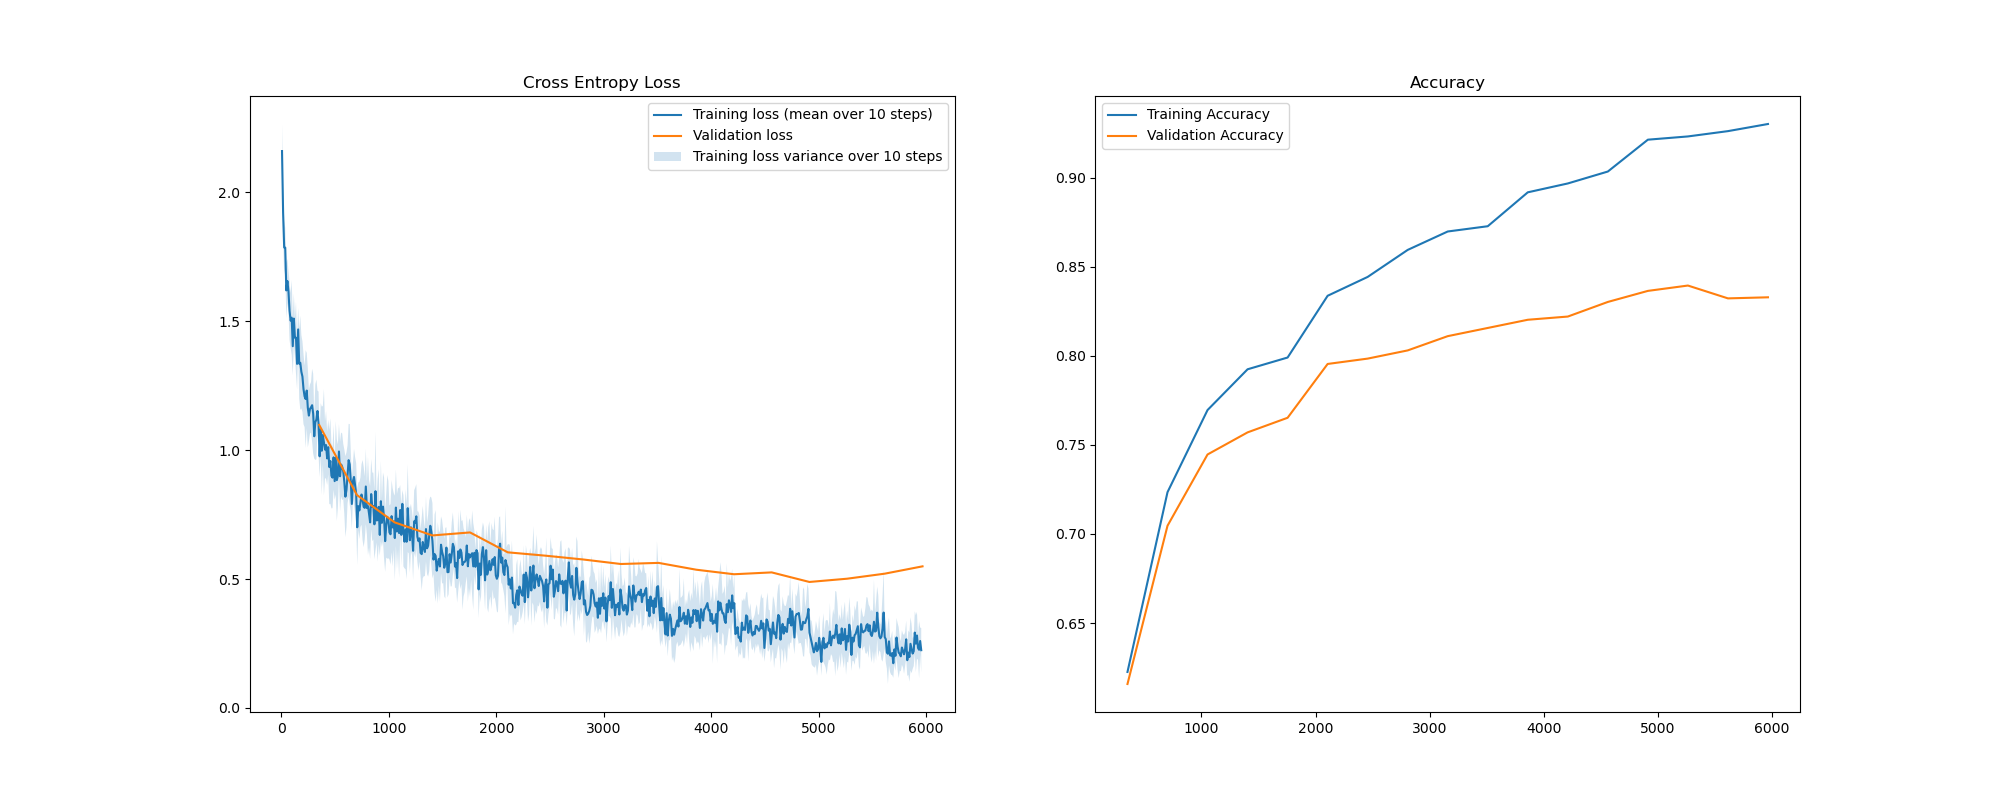
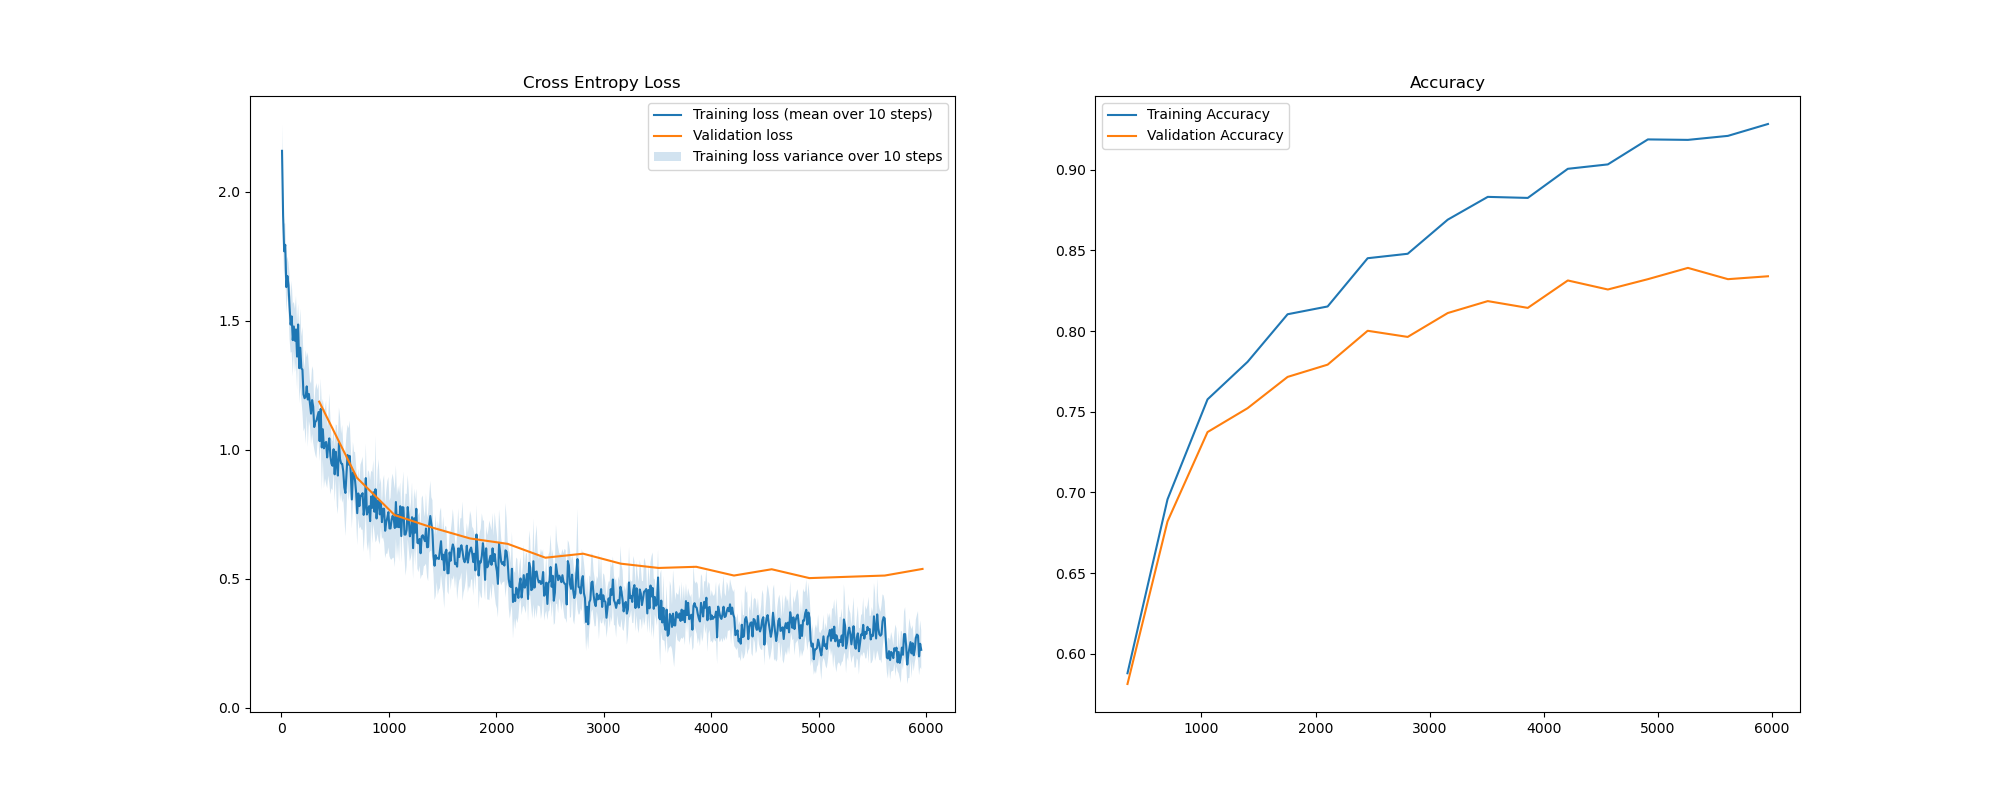
Task 3 done

diff --git a/assignment_3/task3_model_2.py b/assignment_3/task3_model_2.py
@@ -7,6 +7,22 @@ from dataloaders import load_cifar10
 from trainer import Trainer, compute_loss_and_accuracy
 
 
+# (conv-relu-pool-batchnorm)
+def block(in_channels, out_channels):
+    return [
+        nn.Conv2d(
+            in_channels=in_channels,
+            out_channels=out_channels,
+            kernel_size=3,
+            stride=1,
+            padding=1
+        ),
+        nn.ReLU(),
+        nn.MaxPool2d(2, stride=2),
+        nn.BatchNorm2d(out_channels)
+    ]
+
+
 class Model(nn.Module):
 
     def __init__(self,
@@ -22,36 +38,12 @@ class Model(nn.Module):
         self.num_classes = num_classes
         # Define the convolutional layers
         self.feature_extractor = nn.Sequential(
-            nn.Conv2d(
-                in_channels=image_channels,
-                out_channels=32,
-                kernel_size=5,
-                stride=1,
-                padding=2
-            ),
-            nn.ReLU(),
-            nn.MaxPool2d(2, stride=2),
-            nn.Conv2d(
-                in_channels=32,
-                out_channels=64,
-                kernel_size=5,
-                stride=1,
-                padding=2
-            ),
-            nn.ReLU(),
-            nn.MaxPool2d(2, stride=2),
-            nn.Conv2d(
-                in_channels=64,
-                out_channels=128,
-                kernel_size=5,
-                stride=1,
-                padding=2
-            ),
-            nn.ReLU(),
-            nn.MaxPool2d(2, stride=2),
+            *block(3, 32),
+            *block(32, 64),
+            *block(64, 128),
         )
 
-        # The output of feature_extractor will be [batch_size, 128, 4, 4]
+        # The output of feature_extractor will be [batch_size, ?, ?, ?]
         # 128 feature maps with 4x4 images, given 32x32 input images
         self.num_output_features = 4*4*128
         # Initialize our last fully connected layer
@@ -60,7 +52,9 @@ class Model(nn.Module):
         # There is no need for softmax activation function, as this is
         # included with nn.CrossEntropyLoss
         self.classifier = nn.Sequential(
-            nn.Linear(self.num_output_features, 64),
+            nn.Linear(self.num_output_features, 128),
+            nn.ReLU(),
+            nn.Linear(128, 64),
             nn.ReLU(),
             nn.Linear(64, num_classes)
         )
@@ -87,17 +81,60 @@ if __name__ == "__main__":
     utils.set_seed(0)
     epochs = 10
     batch_size = 64
-    learning_rate = 5e-2
+    learning_rate = 0.001
     early_stop_count = 4
-    dataloaders = load_cifar10(batch_size)
+    dataloaders = load_cifar10(batch_size, data_augmentation=False)
     model = Model(image_channels=3, num_classes=10)
-    trainer = Trainer(
+    trainer_with_adam = Trainer(
         batch_size,
         learning_rate,
         early_stop_count,
         epochs,
         model,
-        dataloaders
+        dataloaders,
+        optimizer="Adam"
     )
-    trainer.train()
-    utils.create_plots(trainer, "task3_model_2")
+    trainer_with_adam.train()
+
+    utils.set_seed(0)
+    dataloaders = load_cifar10(batch_size, data_augmentation=False)
+    model = Model(image_channels=3, num_classes=10)
+
+    trainer_without_adam = Trainer(
+        batch_size,
+        learning_rate,
+        early_stop_count,
+        epochs,
+        model,
+        dataloaders,
+        # optimizer="Adam"
+    )
+    trainer_without_adam.train()
+
+    plot_path = pathlib.Path("plots")
+    # Save plots and show them
+    plt.figure(figsize=(20, 8))
+    plt.subplot(1, 2, 1)
+    plt.title("Cross Entropy Loss")
+    utils.plot_loss(trainer_with_adam.train_history["loss"],
+                    label="Training loss with Adam", npoints_to_average=10)
+    utils.plot_loss(trainer_without_adam.train_history["loss"],
+                    label="Training loss without Adam", npoints_to_average=10)
+    utils.plot_loss(
+        trainer_with_adam.validation_history["loss"], label="Validation loss with Adam")
+    utils.plot_loss(
+        trainer_without_adam.validation_history["loss"], label="Validation loss without Adam")
+    plt.legend()
+    plt.subplot(1, 2, 2)
+    plt.title("Accuracy")
+    utils.plot_loss(
+        trainer_with_adam.train_history["accuracy"], label="Training Accuracy with Adam")
+    utils.plot_loss(
+        trainer_without_adam.train_history["accuracy"], label="Training Accuracy without Adam")
+    utils.plot_loss(
+        trainer_with_adam.validation_history["accuracy"], label="Validation Accuracy with Adam")
+    utils.plot_loss(
+        trainer_without_adam.validation_history["accuracy"], label="Validation Accuracy without Adam")
+    plt.legend()
+    plt.savefig(plot_path.joinpath("task3_model_2_plot.png"))
+    plt.show()
